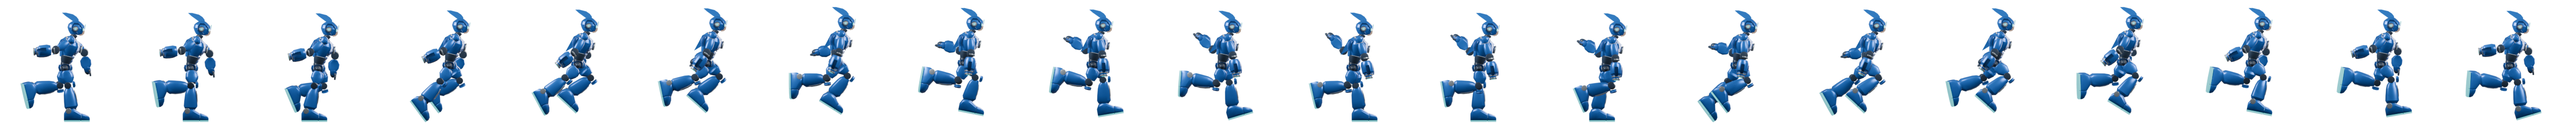
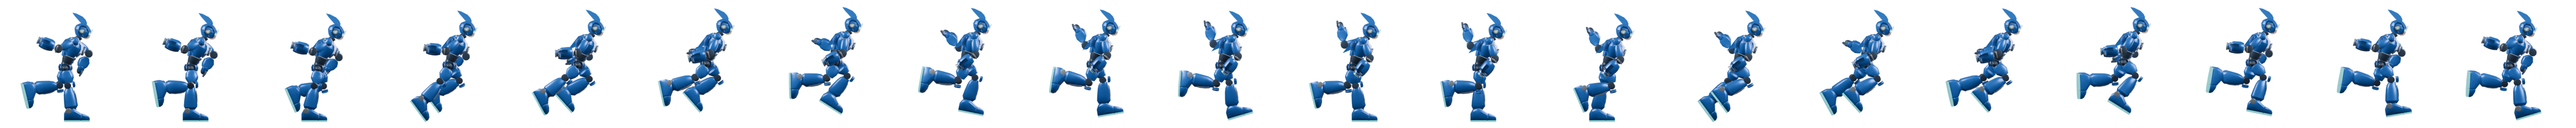
[claude] char: athletic pelvis-lean run with pumping arms
User re-feedback on 2026071801: still reads as upright marching.
Rotate the pelvis 9 deg (whole-body lean; legs counter-rotated so the
world-space stride, contacts and clearances are unchanged), let the
head follow the lean (-0.18 counter), and keep both elbows deeply
flexed so the fists pump chest-front / behind the ribs. Aim gains
extra_lean compensation plus a yaw trim so runshoot/runcharge muzzles
stay level (elev -1.31 / yaw 1.35 within +-2). Lead-thigh peak 45->40/38
clears the leaning pelvis plate; run_torso_drive band now [17,27] so a
regression to vertical fails the audit. PLAYER3D_MUZZLE regenerated
from the new anchors. ASSET_VER=2026071802. Not deployed.

Changed region(s): [[0.0, 0.0625, 1.0, 0.875]]

diff --git a/index.html b/index.html
@@ -167,7 +167,7 @@ function manageBgm(){            // 毎フレーム呼ぶ（状態に応じてBG
 // 各エンティティ＝{fw,fh,scale,ax,ay, anims:{name:{src,frames,fps}}}。
 // anim毎に1枚の横ストリップPNG（コマを横一列）。素材配置後にここを記述する。
 // ★キャッシュ無効化: 素材PNGを差し替えたら ASSET_VER を変えると、ブラウザ/CDNが必ず新素材を取得する。
-const ASSET_VER = '2026071801';
+const ASSET_VER = '2026071802';
 function _av(s){ return s + (s.indexOf('?')<0 ? '?v=' : '&v=') + ASSET_VER; }
 const ASSETS = {
   // 現在のBlender全身リグを、ローカル実機テスト用にそのまま書き出した3Dレンダー。
@@ -975,7 +975,7 @@ const RUN_CYCLE_DISTANCE=64;
 const HERO3D_ENABLED=!(typeof globalThis!=='undefined' && globalThis.location &&
   /(?:^|[?&])hero=legacy(?:&|$)/.test(globalThis.location.search||''));
 // export_game_sprites.py が同じレンダーから生成する砲口座標。実データは素材検査後に埋め込む。
-const PLAYER3D_MUZZLE={"idle":[[136.1074,157.7219],[136.04,157.6992],[135.9771,157.678],[135.9231,157.6596],[135.8816,157.6455],[135.8556,157.6367],[135.8467,157.6336],[135.8556,157.6367],[135.8816,157.6455],[135.9231,157.6596],[135.9771,157.678],[136.04,157.6992],[136.1074,157.7219],[136.1749,157.7445],[136.2377,157.7654],[136.2915,157.7834],[136.3329,157.7971],[136.3589,157.8057],[136.3678,157.8086],[136.3589,157.8057],[136.3329,157.7971],[136.2915,157.7834],[136.2377,157.7654],[136.1749,157.7445]],"shoot":[[200.9185,94.4645],[196.4451,99.1412],[198.536,96.9883],[200.0745,95.3919],[200.9185,94.4645],[200.9185,94.4645],[200.9185,94.4645],[200.9185,94.4645]],"charge":[[200.9762,100.7273],[201.0196,100.9625],[201.051,101.1348],[201.0624,101.1979],[201.051,101.1348],[201.0196,100.9625],[200.9762,100.7273],[200.932,100.4922],[200.8993,100.3202],[200.8872,100.2573],[200.8993,100.3202],[200.932,100.4922]],"run":[[71.9917,119.7513],[66.9794,121.6273],[67.5496,127.5519],[78.8798,129.7084],[88.7543,137.0953],[101.4448,142.4232],[115.4712,145.0884],[128.7279,149.1875],[139.2704,152.4887],[145.8351,154.5101],[152.5608,158.0286],[143.6591,159.0517],[133.5737,160.3364],[127.7601,154.0153],[114.9217,149.9183],[101.4448,142.4232],[89.0462,132.8047],[79.0679,126.5158],[72.182,121.9133],[68.3817,118.6667]],"runshoot":[[216.4318,97.976],[210.417,98.5305],[207.4324,99.3171],[212.1375,93.5061],[211.9765,91.9028],[211.7157,89.3379],[211.4547,86.7744],[211.2932,88.6284],[211.2932,91.7695],[211.4547,94.3131],[216.4224,97.9759],[210.395,98.5305],[207.4198,99.3171],[212.1375,93.5061],[211.9765,91.9028],[211.7157,89.3379],[211.4547,86.7744],[211.2932,88.6284],[211.2932,91.7695],[211.4547,94.3131]],"runcharge":[[215.7046,100.6555],[209.6898,101.21],[206.7053,101.9967],[211.4104,96.1856],[211.2493,94.5823],[210.9885,92.0174],[210.7273,89.4539],[210.5658,91.3079],[210.5658,94.449],[210.7273,96.9926],[215.6952,100.6554],[209.6678,101.21],[206.6927,101.9967],[211.4104,96.1856],[211.2493,94.5823],[210.9885,92.0174],[210.7273,89.4539],[210.5658,91.3079],[210.5658,94.449],[210.7273,96.9926]],"jump":[[85.5049,144.0227],[102.0391,149.1371],[124.8352,154.7089],[141.9381,154.9372],[135.3369,155.3253],[125.3617,155.592],[114.8804,154.8533],[103.0518,152.4178],[108.6454,154.5063],[116.413,156.4326]],"jumpshoot":[[204.2118,97.0609],[205.1541,95.3334],[205.1541,95.3334],[205.1541,95.3334],[205.1541,95.3334],[205.1541,95.3334],[205.1541,95.3334],[205.1541,95.3334],[205.7823,96.9039],[205.1541,96.5898]]};
+const PLAYER3D_MUZZLE={"idle":[[136.1074,157.7219],[136.04,157.6992],[135.9771,157.678],[135.9231,157.6596],[135.8816,157.6455],[135.8556,157.6367],[135.8467,157.6336],[135.8556,157.6367],[135.8816,157.6455],[135.9231,157.6596],[135.9771,157.678],[136.04,157.6992],[136.1074,157.7219],[136.1749,157.7445],[136.2377,157.7654],[136.2915,157.7834],[136.3329,157.7971],[136.3589,157.8057],[136.3678,157.8086],[136.3589,157.8057],[136.3329,157.7971],[136.2915,157.7834],[136.2377,157.7654],[136.1749,157.7445]],"shoot":[[200.9185,94.4645],[196.4451,99.1412],[198.536,96.9883],[200.0745,95.3919],[200.9185,94.4645],[200.9185,94.4645],[200.9185,94.4645],[200.9185,94.4645]],"charge":[[200.9762,100.7273],[201.0196,100.9625],[201.051,101.1348],[201.0624,101.1979],[201.051,101.1348],[201.0196,100.9625],[200.9762,100.7273],[200.932,100.4922],[200.8993,100.3202],[200.8872,100.2573],[200.8993,100.3202],[200.932,100.4922]],"run":[[75.1812,79.9164],[69.4708,82.3625],[67.2168,90.0096],[74.231,95.2335],[79.3487,107.1011],[87.9439,117.9717],[99.2358,126.4524],[111.1806,135.7271],[121.4018,142.8919],[128.0711,147.1649],[134.9247,151.2866],[126.0511,151.3265],[116.0363,150.1242],[110.6719,139.9523],[99.0736,130.9361],[87.9439,117.9717],[79.0261,103.0269],[73.2755,92.2417],[70.6015,84.4303],[70.0659,79.376]],"runshoot":[[225.086,100.1642],[219.0597,100.7589],[216.0679,101.5704],[220.7731,95.7594],[220.6192,94.1312],[220.3699,91.5261],[220.12,88.9224],[219.9654,90.7515],[219.9653,93.8926],[220.12,96.461],[225.0766,100.1642],[219.0377,100.7589],[216.0554,101.5704],[220.7731,95.7594],[220.6192,94.1312],[220.3699,91.5261],[220.12,88.9224],[219.9654,90.7515],[219.9653,93.8926],[220.12,96.461]],"runcharge":[[224.3617,102.8414],[218.3356,103.4362],[215.3438,104.2477],[220.049,98.4366],[219.8951,96.8085],[219.6456,94.2034],[219.3957,91.5996],[219.241,93.4287],[219.241,96.5698],[219.3957,99.1382],[224.3523,102.8414],[218.3136,103.4362],[215.3313,104.2477],[220.049,98.4366],[219.8951,96.8085],[219.6456,94.2034],[219.3957,91.5996],[219.241,93.4287],[219.241,96.5698],[219.3957,99.1382]],"jump":[[85.5049,144.0227],[102.0391,149.1371],[124.8352,154.7089],[141.9381,154.9372],[135.3369,155.3253],[125.3617,155.592],[114.8804,154.8533],[103.0518,152.4178],[108.6454,154.5063],[116.413,156.4326]],"jumpshoot":[[204.2118,97.0609],[205.1541,95.3334],[205.1541,95.3334],[205.1541,95.3334],[205.1541,95.3334],[205.1541,95.3334],[205.1541,95.3334],[205.1541,95.3334],[205.7823,96.9039],[205.1541,96.5898]]};
 let playerRenderInfo={source:'none',anim:null,frame:null,chargeOverlay:false};
 
 function player3DRunFrame(distance){

diff --git a/HANDOFF.md b/HANDOFF.md
@@ -1,6 +1,22 @@
 # HANDOFF — Claude ↔ Codex 協働ログ（新しい順に上へ追記）
 
-## 2026-07-18 — [claude] run-lean: 「直立のまま走る」を体幹前傾＋頭部追従で解消（ローカル反映・デプロイ待ち）
+## 2026-07-18 — [claude] run-athletic: 骨盤込み9°前傾＋両腕ポンプで「直立走り」を全面解消（ローカル反映・デプロイ待ち）
+- ユーザー再指摘（run-lean 2026071801 でも不足）: 「ポーズが直立のまま走って不自然。両手をしっかり振る・前傾する・レンダリング用に決めたパーツが活かされていない」。
+- 診断: (a) 骨盤が並進のみで無回転＝体幹基部と骨盤シェルが常に垂直 (b) `DEF_head` -45%逆補正でヘルメット（シルエットの1/3）がほぼ垂直 (c) 前振り側の肘が伸展（バスター肘14°）＝拳が腰より上がらず「垂れ腕」読み。spine単独増量は腹部↔骨盤衝突の物理上限14.5°で不可能＝構造変更が必須だった。
+- 退避: 変更前scripts＋2026071801素材一式を `blender/hero/archive/20260718-pre-athletic-lean/`（変更前HEAD=2e69c47）に固定。
+- 実装（`render_motion_previews.py` / `render_pose_previews.py` / `audit_motion_cycles.py` / `index.html`）:
+  - `RUN_PELVIS_LEAN=9`: DEF_pelvisを回転（armature-spaceオフセット後にrotation_euler設定で両立）。脚FKは authored−9° の逆補正で世界座標の脚軌道・接地・クリアランスを完全保持 → run/runshoot/runcharge の共有下半身不変条件はそのまま成立。
+  - 頭部逆補正 -0.45→-0.18 → 頭部世界前傾 約38°・体幹実測 21.5〜23.5°（ヘルメットが走りへ倒れ込み、クレストが後方へ流れる）。
+  - 両腕ポンプ（sweep実測で決定）: `upper_arm.R z=42*stride / forearm.R z=62-5*stride / upper_arm.L z=-7-63*stride / forearm.L z=85-7*stride`。前振りは肘深屈で拳が胸前（hand_dx+0.32BU・肘内角103°、audit床0.25を実測クリア）、後振りは肋横タック。両局面とも肘屈曲維持＝棒腕読みを排除。
+  - `upper_aim` に `extra_lean` 追加: 骨盤前傾分も肩カウンターに合算＋`forearm.R x=-6.4-0.09*extra_lean` のヨートリム → runshoot muzzle elev -1.31° / yaw 1.35° で AIM_LIMITS(±2°)内。stand/jump系は extra_lean=0 で完全不変。
+  - 腿ドライブピーク 45→40(f4/f14)・38(f5/f15): 前傾で股関節が9°閉じ `PelvisFrontPlate↔ThighPrimaryShell` が新規衝突（14tri）したため。lead-knee≥38°ゲートは40で維持。
+  - audit `run_torso_drive` 帯 [8,15]→[17,27]: 下限が前傾を強制＝直立への回帰を以後failさせる。
+  - `ASSET_VER='2026071802'`。**`PLAYER3D_MUZZLE` インラインテーブルを新 `assets/player3d_anchors.json` から機械再生成**（腕ポーズ変更でrun系砲口座標が大幅移動・旧テーブルは失効。素材再レンダー時はこのテーブル再生成を忘れないこと）。
+- 検証: `audit_motion_cycles` 124frames/新規・悪化衝突0/不変条件0、`validate_game_sprites` 8motions/124frames OK、`validate_motion_readability` failures 0、`player3dcheck` 43/43、`posecheck` 48/48、`harness` 30/30。実機Chrome（127.0.0.1:8766・`?v=2026071802`）で run=前傾ポンプ走行、runshoot=前傾のまま水平ショット（砲口一致）、runcharge=砲口蓄光、`source=player3d`、console error 0 を確認。
+- 公開: **未デプロイ**（ユーザー承認後に push → `https://nekoojisan-labo.github.io/cobalt-bolt/?v=2026071802`）。ロールバックは `archive/20260718-pre-athletic-lean/NOTE.txt` 手順。
+- 次: ユーザー実操作評価。追加調整は (a) 前傾量=RUN_PELVIS_LEAN（変更時は衝突再監査必須） (b) 腕振り振幅（scratchのsweep手法を再利用）。
+
+## 2026-07-18 — [claude] run-lean: 「直立のまま走る」を体幹前傾＋頭部追従で解消（不足と評価され run-athletic で置換）
 - ユーザー評価（公開版 2026071702 への実操作フィードバック）: 「キャラのポーズが直立状態で、そのまま走る動作をするから不自然」。
 - R1/R2: 描画側は正常（実機で `source=player3d` / run 20コマの距離同期を確認）。原因は素材のポーズ設計で、(a) 体幹前傾が spine 11.5°のみ (b) `DEF_head z=-torso_lean` の完全逆補正で背の高いヘルメットシルエットが常に垂直 (c) 腕振り振幅が小さい、の3点により実寸で「その場足踏み」に読めた。
 - R4: 変更前の `render_motion_previews.py`・8素材・砲口anchorsを `blender/hero/archive/20260718-pre-forward-lean/` に固定（変更前HEAD=458c808）。
